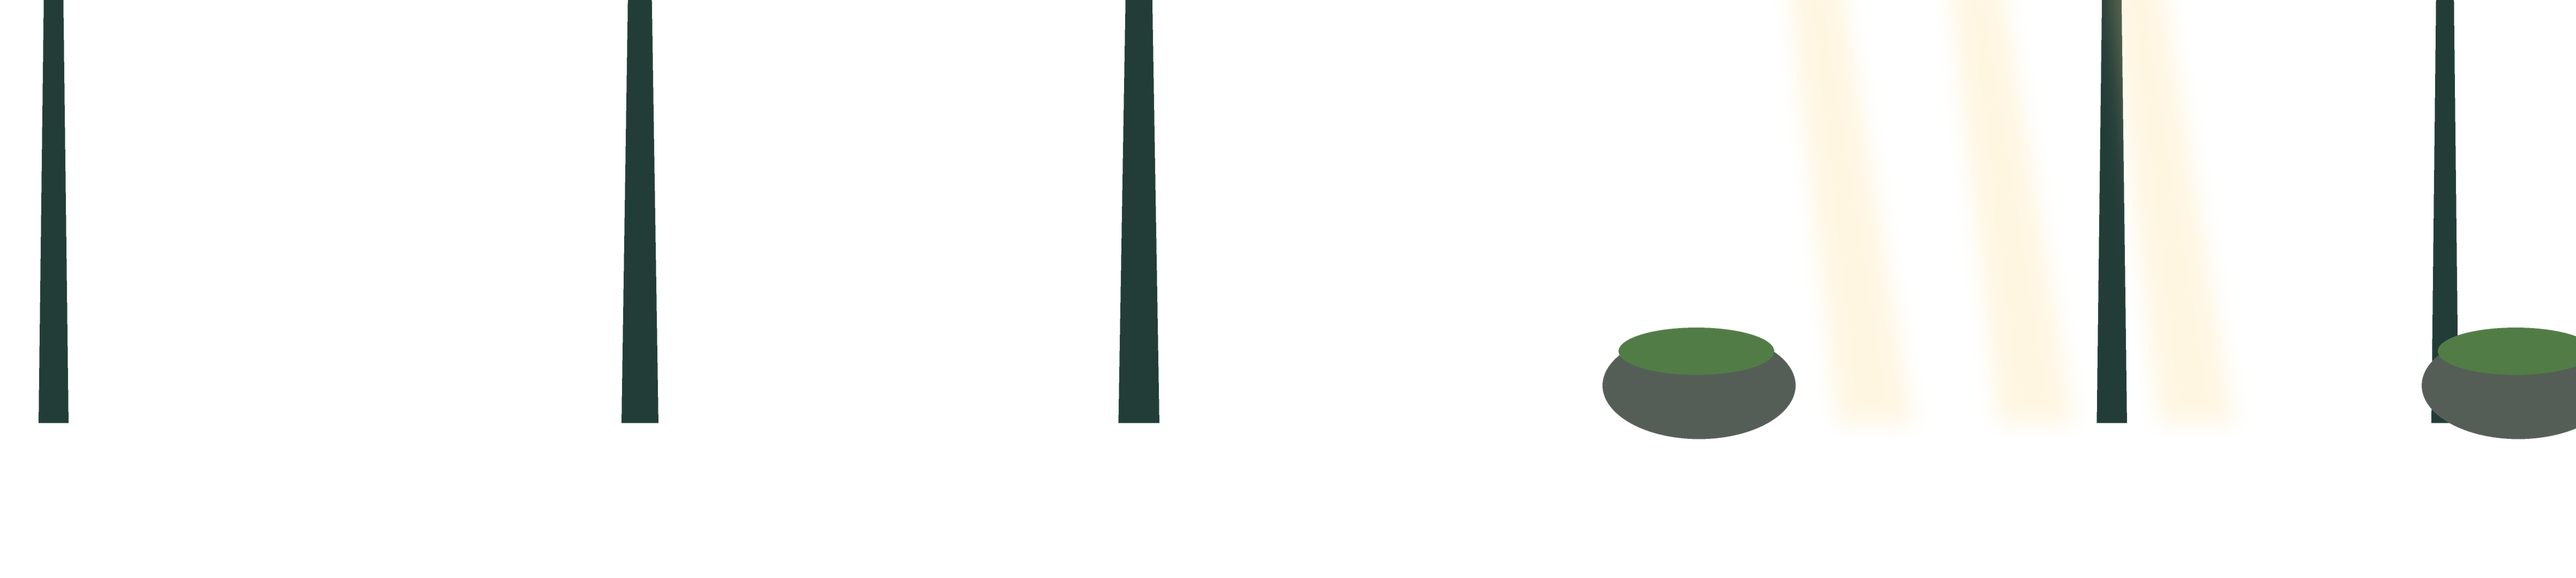
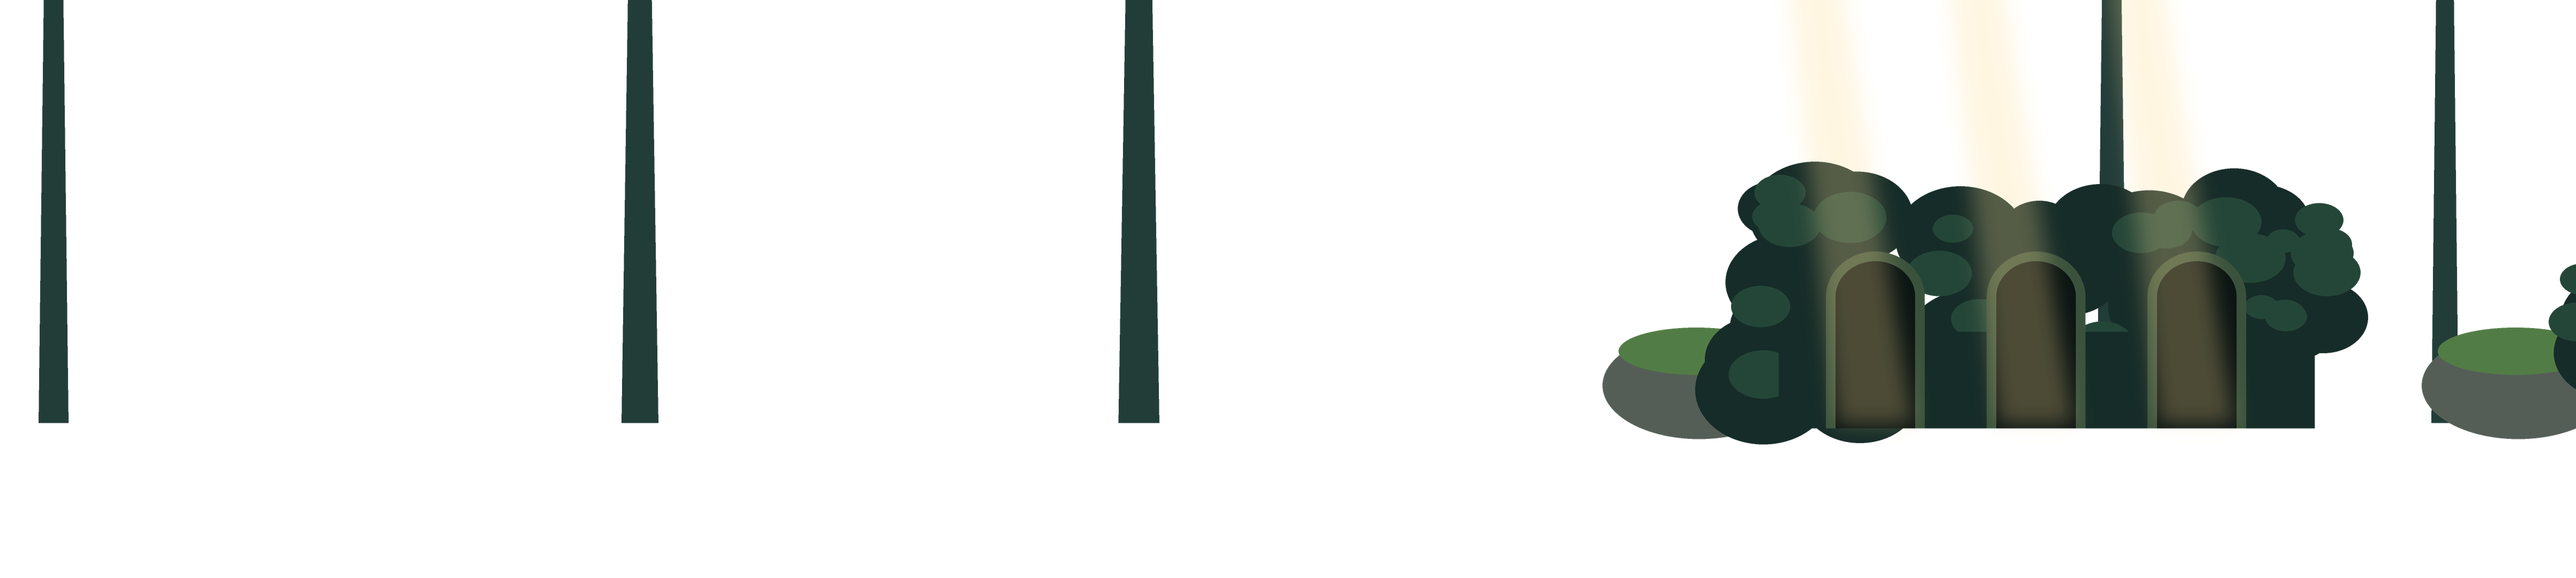
걷는 속도 300, 열쇠 주운 표시, 숲 갈림길을 덤불 벽 입구로
- 하윤 걷는 속도 250 → 300px/초(화면 하나 약 6.4초). 하늘이 속도(따라오기·심부름·만남·힌트)도 200 기준의 1.5배로 같이 올림
- 조사 대상 pickup_art: 조사하면 주운 물건 그림이 떠올랐다 사라진다(대사 없음, 조작 안 막음). 집 1-4 액자에 prop_key
- 막는 벽 art: 막는 동안 하윤 앞에 그림을 그린다. 숲 4-2 갈림길 끝에 prop_thicket(투명벽이라 막힌 줄 몰랐다)
- 숲 4-2: 임시 배경 props에 입구 셋 난 덤불 벽, 안내 "이 입구로 들어가기". 장면표 4-2도 고침
- 검사: 주운 물건 3개, 막는 벽 그림 2개 추가. Godot 4.7.2에서 스모크·게임플레이·부품 흐름 통과

Changed region(s): [[0.6552, 0.275, 0.9359, 0.7639], [0.9671, 0.4583, 1.0, 0.6722]]

diff --git a/tools/placeholder_art.py b/tools/placeholder_art.py
@@ -810,6 +810,22 @@ def forest(width: float, markers: dict[str, float]) -> dict[str, Layer]:
         x = x0 + rock_dx
         L.ellipse((x - 180, 620, x + 180, 820), rgba(84, 94, 86))
         L.ellipse((x - 150, 612, x + 140, 700), rgba(82, 124, 70))
+        # 덤불 벽: 빛줄기 셋 앞에서 길을 막고, 빛 자리마다 굴 같은 입구가 난다(옆으로 못 가고 입구를 골라야 한다는 게 보이게).
+        hx0, hx1 = x + shaft_dxs[0] - 220, x + shaft_dxs[-1] + 260
+        hr = random.Random(f"hedge{rock_dx}")  # 숲의 다른 그림(rng 순서)이 바뀌지 않게 따로
+        for _ in range(int((hx1 - hx0) / 26)):
+            cx, cy, r = hr.uniform(hx0, hx1), hr.uniform(380, 760), hr.uniform(60, 130)
+            L.ellipse((cx - r, cy - r * 0.8, cx + r, cy + r * 0.8), rgba(22, 44, 40))
+        for _ in range(int((hx1 - hx0) / 40)):
+            cx, cy, r = hr.uniform(hx0, hx1), hr.uniform(340, 720), hr.uniform(30, 70)
+            L.ellipse((cx - r, cy - r * 0.7, cx + r, cy + r * 0.7), rgba(36, 70, 56))
+        L.rect(hx0 + 40, 620, hx1 - 40, 800, rgba(22, 44, 40))
+        for dx in shaft_dxs:
+            ex = x + dx
+            L.ellipse((ex - 92, 470, ex + 92, 640), rgba(58, 82, 60))  # 입구 테두리(빛 받은 잎)
+            L.rect(ex - 92, 556, ex + 92, 800, rgba(58, 82, 60))
+            L.ellipse((ex - 74, 488, ex + 74, 620), rgba(10, 20, 18))  # 굴 안쪽 어둠
+            L.rect(ex - 74, 554, ex + 74, 800, rgba(10, 20, 18))
         L.haze([("poly", [(x + dx - 160, -10), (x + dx - 60, -10), (x + dx + 70, 792), (x + dx - 70, 792)], gold)
                 for dx in shaft_dxs], 18)
     # 4-3 빈터: 큰 빛과 떠 있는 빛 알갱이(움직임은 나중에 코드로)
@@ -1426,7 +1442,45 @@ def prop_portrait_hayun() -> Image.Image:
     return _portrait(sitter)
 
 
-PROPS = {"prop_map_folded": prop_map_folded, "prop_tractor": prop_tractor, "prop_persimmon": prop_persimmon,
+def prop_key() -> Image.Image:
+    """1-4 액자 뒤에서 찾는 작은 열쇠(주웠을 때 떠오르는 그림). 놋쇠 빛, 둥근 손잡이, 이 두 개. 진한 테두리로 밝은 벽 앞에서도 보이게."""
+    w, h = 96, 44
+    L = Layer(w)
+    edge, brass, shine = rgba(70, 50, 28), rgba(214, 170, 74), rgba(246, 222, 150)
+    L.ellipse((2, 4, 40, 40), edge)
+    L.ellipse((6, 8, 36, 36), brass)
+    L.ellipse((14, 16, 28, 28), edge)  # 고리 구멍
+    L.ellipse((16, 18, 26, 26), rgba(0, 0, 0, 0))
+    L.rect(34, 17, 92, 27, edge)
+    L.rect(36, 19, 90, 25, brass)
+    L.rect(70, 25, 78, 38, edge)  # 이
+    L.rect(82, 25, 90, 34, edge)
+    L.rect(72, 25, 76, 36, brass)
+    L.rect(84, 25, 88, 32, brass)
+    L.line([(10, 14), (18, 9)], shine, 2.5)
+    L.line([(40, 20), (84, 20)], shine, 1.5)
+    return L.render()[0].crop((0, 0, w, h))
+
+
+def prop_thicket() -> Image.Image:
+    """4-2 갈림길 끝에서 길을 막는 덤불(하윤 앞에 그린다, Gate.art). 그림 아래 가운데가 땅."""
+    w, h = 200, 560  # 폭 200: 벽(입구 셋 끝 +200)에 가운데를 두면 셋째 입구를 가리지 않는다
+    L = Layer(w)
+    rng = random.Random("thicket")
+    for _ in range(40):
+        cx, cy, r = rng.uniform(50, w - 50), rng.uniform(140, h - 40), rng.uniform(36, 60)
+        L.ellipse((cx - r, cy - r * 0.85, cx + r, cy + r * 0.85), rgba(20, 40, 36))
+    for _ in range(30):
+        cx, cy, r = rng.uniform(40, w - 40), rng.uniform(120, h - 60), rng.uniform(20, 46)
+        L.ellipse((cx - r, cy - r * 0.8, cx + r, cy + r * 0.8), rgba(44, 82, 60))
+    for _ in range(14):  # 가시 가지
+        x0, y0 = rng.uniform(30, w - 30), rng.uniform(140, h - 40)
+        L.line([(x0, y0), (x0 + rng.uniform(-60, 60), y0 - rng.uniform(30, 80))], rgba(30, 30, 24), 4)
+    L.rect(20, h - 60, w - 20, h, rgba(20, 40, 36))
+    return L.render()[0].crop((0, 0, w, h))
+
+
+PROPS = {"prop_map_folded": prop_map_folded, "prop_key": prop_key, "prop_thicket": prop_thicket, "prop_tractor": prop_tractor, "prop_persimmon": prop_persimmon,
          "prop_portrait_grandpa": prop_portrait_grandpa, "prop_portrait_hayun": prop_portrait_hayun}
 
 

diff --git a/docs/story.md b/docs/story.md
@@ -6,7 +6,7 @@
 
 **읽는 법**
 - 시간은 처음 하는 사람이 서두르지 않고 걸었을 때의 어림이다. 회색 네모 뼈대에서 실제로 재고 고친다.
-- 장소 폭(화면 길이)은 걷는 속도 200px/초로 잡았다. 해 본 사람이 느리다고 해서 **250px/초로 올렸다**(#29). 폭은 그대로라 걷기만 하는 구간이 약 20% 짧아진다. 전체 시간은 처음부터 끝까지 재 보고 고친다.
+- 장소 폭(화면 길이)은 걷는 속도 200px/초로 잡았다. 해 본 사람이 느리다고 해서 **250px/초로 올렸다**(#29). 그래도 답답하다고 해서 **300px/초로 다시 올렸다**(2026-11-21). 폭은 그대로라 걷기만 하는 구간이 200 기준보다 약 1/3 짧아진다. 전체 시간은 처음부터 끝까지 재 보고 고친다.
 - **대사**는 소리 내어 말하는 줄이다. 게임 전체에 11줄뿐이다. **글**은 지도 메모·시간표처럼 화면에 쓰인 글자다.
 - **(선택)** 장면은 지나쳐도 진행된다.
 - 복선은 말로 가리키지 않는다. "복선" 칸은 만드는 사람끼리 보는 메모다.
@@ -81,7 +81,7 @@
 | # | 장면 | 화면과 행동 | 복선·소리 | 글·대사 | 필요한 그림 | 길이 |
 | --- | --- | --- | --- | --- | --- | --- |
 | 4-1 | 숲 입구 | 숲에 들어서자 빛 알갱이가 떠오른다 | 하윤 그림자가 거의 없다. 풀벌레 소리 | — | 하늘·먼 숲, 나무 조각 3종, 고사리 | 0:40 |
-| 4-2 | 빛 갈림길 | 빛줄기가 길을 세 갈래로 비춘다. 틀린 길로 가면 이끼 낀 바위 앞으로 돌아온다. 하늘이에게 부탁(냄새)하면 맞는 길 쪽으로 짖는다. 두 번 반복 | 빛 알갱이가 하늘이 발밑에만 모인다 | — | 이끼 바위, 빛줄기 | 1:40 |
+| 4-2 | 빛 갈림길 | 길이 빽빽한 덤불 벽에 막힌다(옆으로는 못 간다). 덤불 벽에 굴 같은 입구가 셋 있고, 빛줄기가 입구마다 내린다. 입구 하나를 골라 들어간다. 틀린 길로 가면 이끼 낀 바위 앞으로 돌아온다. 하늘이에게 부탁(냄새)하면 맞는 입구 쪽으로 짖는다. 두 번 반복 | 빛 알갱이가 하늘이 발밑에만 모인다 | — | 이끼 바위, 빛줄기, 입구 셋 난 덤불 벽, 길을 막는 덤불 | 1:40 |
 | 4-3 | 빈터 | 빛이 내리는 빈터. 동그라미 3에 체크한다. 하윤이 앉으면 빛이 쏟아진다. 하늘이가 한쪽을 바라보며 꼬리를 흔든다 | 기억 장면 3: 할아버지와 어린 흰 개(왼쪽 귀 끝 갈색). 휘파람 한 소절 | 글: "해 지고 조금만 기다려. 금방 환해진다." | 빈터, 기억 장면 3 | 1:30 |
 | 4-4 | 숲 끝 | 물소리가 들려온다. 숲 끝에 안개가 낀다 | 풀벌레 소리가 줄고 물소리가 커진다 | — | (조각 재사용) | 0:50 |
 
